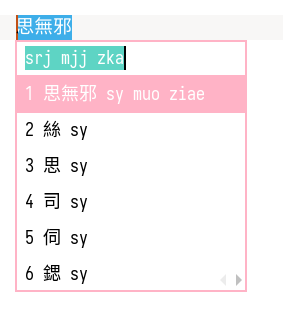
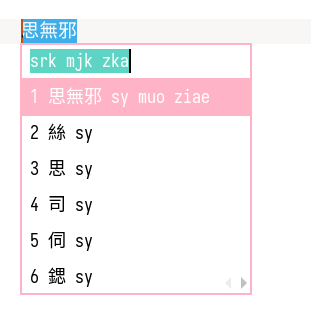
Swap 平 & 上 columns (v0.0.7)

Changed region(s): [[0.0283, 0.0283, 0.8763, 0.934]]

diff --git a/README.md b/README.md
@@ -64,20 +64,20 @@ __注意__：此為 alpha 版，音到鍵的對應仍有些調整空間；鍵位
 
 | 左五                 | 左四                | 左三                  | 左二                 | 左一                  | 右一                | 右二               | 右三                | 右四                 | 右五                 |
 | -------------------- | ------------------- | --------------------- | -------------------- | --------------------- | ------------------- | ------------------ | ------------------- | -------------------- | -------------------- |
-| <br />Q              | N入<br />-t<br />E  | N上<br />-nq<br />W   | N平-n<br />R         | N去<br />-nh<br />T   | J去<br />-jh<br />Y | J平<br />-j<br />U | J上<br />-jq<br />I | \*上<br />-*q<br />O | \*去<br />-*h<br />P |
-| \*平<br />-*<br />A  | NG入<br />-k<br />D | NG上<br />-ngq<br />S | NG平<br />-ng<br />F | NG去<br />-ngh<br />G | ∅去<br />-∅h<br />H | ∅平<br />-∅<br />J | ∅上<br />-∅q<br />K | W上<br />-wq<br />L  |                      |
-| \*入<br />-*k<br />Z | M入<br />-p<br />C  | M上<br />-mq<br />X   | M平<br />-m<br />V   | M去<br />-mh<br />B   | W去<br />-wh<br />N | W平<br />-w<br />M |                     |                      |                      |
+| <br />Q              | N入<br />-t<br />W  | N平<br />-nq<br />E   | N上<br />-n<br />R   | N去<br />-nh<br />T   | J去<br />-jh<br />Y | J上<br />-j<br />U | J平<br />-jq<br />I | \*上<br />-*q<br />O | \*去<br />-*h<br />P |
+| \*平<br />-*<br />A  | NG入<br />-k<br />S | NG平<br />-ngq<br />D | NG上<br />-ng<br />F | NG去<br />-ngh<br />G | ∅去<br />-∅h<br />H | ∅上<br />-∅<br />J | ∅平<br />-∅q<br />K | W平<br />-wq<br />L  |                      |
+| \*入<br />-*k<br />Z | M入<br />-p<br />X  | M平<br />-mq<br />C   | M上<br />-m<br />V   | M去<br />-mh<br />B   | W去<br />-wh<br />N | W上<br />-w<br />M |                     |                      |                      |
 
 ```
 Q    W E R T       Y U I    O P
-     入上平去<n  j>去平上 *>上去
+     入平上去<n  j>去上平 *>上去
 A    S D F G       H J K    L
-平<* 入上平去<ng 0>去平上 w>上
+平<* 入平上去<ng 0>去上平 w>平
 Z    X C V B       N M
-入<* 入上平去<m  w>去平
+入<* 入平上去<m  w>去上
 ```
 
-- 中間部分三排對應韻尾三類，左手陽聲韻，右手陰聲韻（惟 w 尾上聲挪至旁邊 L）
+- 中間部分三排對應韻尾三類，左手陽聲韻，右手陰聲韻（惟 -w 尾平聲挪至旁邊 L）
 - 「-*」尾四鍵均在邊緣
 
 ## 元音
